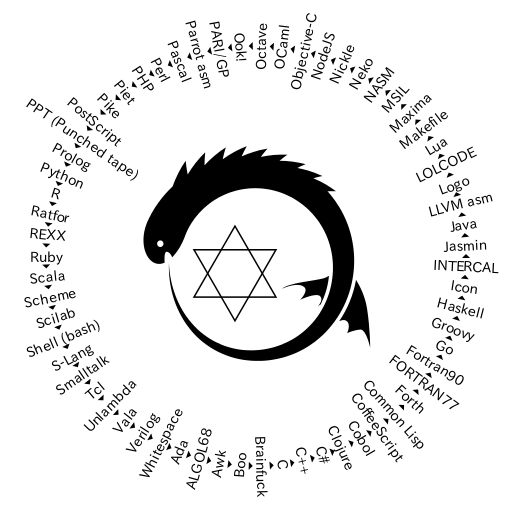
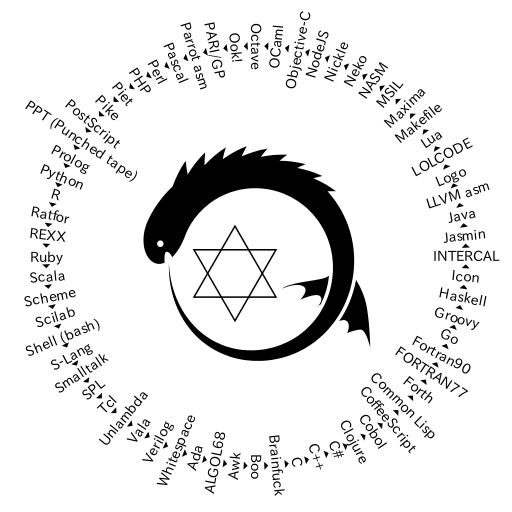
* the 64th language: SPL

Changed region(s): [[0.0312, 0.0312, 0.9688, 0.9688], [0.2188, 0.3125, 0.2812, 0.3438]]

diff --git a/QR.rb b/QR.rb
@@ -1,57 +1,57 @@
 eval$s=%q(eval(%w(B=92.chr;g=32.chr;puts(eval(%q(N=10.chr;n=0;e=->s{Q[Q[s,B],?"].K(N,B+?n)};E=->s{'("'+e[s]+'")'};d=->s,t
 =?"{s.K(t){t+t}};Q=->s,t=?${s.K(t){B+$&}};M=->s{"<stdio.h>#{N}!t~mX{puts#{E[s]};return~0;}"};V=->s,a,z{s.K(/(#{B*4})+/){a
 +"#{$&.size/2}"+z}};$D="program~QR";%(object~QR~extends~App{Z#{E[%((display~"#{e[%[echo~-En~"#{Q[e[e["Transcript~show:~'#
-{d[%(proc~f~{n}~{sJ~repeat~"Y"~$n}~;puts~[reK~ -all~{.  }~"#{V[Q  [e[%[!t~mX{sJ~s=#{E[%(with~Ada.Text_Io;procedure~qr~is~
-beg!~Ada.Text_Io.Put_L!e("#{d[%(Z("#{ d[%(B   EGIN     {s=#      {E[%(f={n~as~!t|'Y'*n};a=0;s=#{V[Q[E["#!clude"+M["#!clud
-e<iostream>`n!t~mX{std::cout<<#{E[%  (cl     a                            ss~Program{public~static~void~MX{System.Console
-.Write(#{E[%((doseq[s(lazy- cat["    I                                   DENTIFICATION~DIVISION.""PROGRAM-ID.~QR.""PROCED
-URE~DIVISION."'DISPLA`x59]  (ma                                                    p~#(str"~~~~^""(.replace~%1"^"""^"^"")
-"^"&")(re-seq~#".{1,45}""    #                                                    {e[%((f=(n)->Array(n+1).jo!~"Y");consol
-e.log("%s",#{V[E[%((H-l!                                                                 e"#{e[%(~:~A~."#{g*9}"~;~:~B~A~.
-"~WRITE(*,*)'"~A~;~:~C~                                                                 B~T`x59PE~."~'"~CR~;~:~D~S"~#$D"~
-C~S^"~Z~^"(&"~C~S^"~#{                                                                       e[%(package~ma!;import"fmt";
-func~mX{fmt.Pr!t#{E[%                                                                       (Z'#{e[("ma!=putStr"+E[%(proc
-edure~mX;i:=c:=0;s:                                    =#{E[%(.c                                lass~public~QR`n.super~#{
-$T="java/io/Pr!tS                              tream"}`n.method~public~s                       tatic~ma!([L#{S="java/lang
-/"}SJ;)V~;]`n.li                           mit~stack~2`ngetstatic~#{S}System/                   out~L#$T;`nldc~"#{e[%(cla
-ss~QR{public~s                         tatic~void~ma!(SJ[]v){SJ~c[]=new~SJ[8000]                  ,y="",z=y,s="#{z=t=(0..
-r=q=126).map{                        |n|[n,[]]};a="";b=->n{a<<(n%78+55)%84+42};(%(@                s=global[#{i=(s=%(PR~"
-`x48AI^~1.2~                       PR~"VISIBLE^~"#{Q["Z"+E[%(all:`n`t@echo~'#{d[Q["l!               el:99999;Z#{E[%(.asse
-mbly~t{}.me                      thod~static~void~MX{.entrypo!t~ldstr"#{e[%(m:db`x60#{               e[s="$Z#{E[%(Zf#{E["
-require('u                      til').Z#{E["#import"+M["Z_sJ"+E[%(s=toascii#{E["Z#{E[%(s              ay"#{e["#$D(output)
-;beg!~H(#                     {((p="eval";%($_="#{ s=%(<?php~function~f($n){return~str_re             peat("Y",$n);};$f="
-f";$z=3+$                    w=strlen($s=#{V[Q[E[   "!t~mX{H#{E[%((___________)dup~=/s(|~~~            ~~.~~~|)def(#{Q["q
-r:-H('#{                    Q[e[%(for~c~!"".jo!(  [  "say~'%s'^n"%l~for~l~!#{E[d[%(eval$s=%q            (#$s)),?']]}.spli
-t("^n")]                   ):Z('cat("r=fput(cha  r(%  d))^n")'%ord(c))`nZ('cat("end^n")'))],            ?']}').",B]}){9~7
-{exch~du       p~         1~and~79~mul~32~add~  exch~  2~idiv~3~1~roll~s~exch~2~!dex~exch~put            ~1~sub~dup~6~eq{
-1~sub}if                 }repeat~s~=~pop~pop}  forall~  =~quit)]};return~0;}"]],"{$f(",")}"]})           *3;echo"^x89PNG^
-r^n^x1a^n               ";$m="";                                     $t="^xc0^0^xff";for($i=-1           ;$i<128*$z;$m.=$
-c--?($w-$c        ||$  i>$z)&&$i/  $z<($c<  $w?ord($s[(!t  )($c/3)  ]):$c--%3+2)?$t[2].$t[$c%3%          2].$t[$c%3]:"^0^
-0^0":"^0")$       c=++$i%$z;foreac  h(arr  ay("I`x48DR".pa  ck("N  NCV",$w+2,128,8,2),"IDAT".gz          compress($m),"IE
-ND")as$d)echo~   pack("NA*N",strlen  ($d  )-4,$d,crc32($d))  ;?>  );(s+N*(-s.size%6)).unpack("B          *")[0].K(/.{6}/)
-{n=$&.to_i~2;((n+14) /26*6+n+47).chr  }  }";s|.|$n=ord$&;sub  s  tr~unpack(B8,chr$n-!t($n/32)*6          -41),2|eg;Z~pack
-"B*",$_).scan(/[~,-: A-z]+|(.)/){p="s   ++#{$1?"chr~#{$1.ord}   +e":$&+?+};"+p};p)).K(/.{1,255}          /){|s|"'#{s}',"}
-}'')end."]}"`nend)]} ;quit"]};t=num2  c  ell(b=11-ceil(s/13)  )  ;for~n=1:9m={};for~i=1:1     4          1f=@(x,y,n)repma
-t(["Ook"~x~"~Ook"~y~  32],[1~abs(n)  ]);  m(i)=[f(z=46,63,n  )~f  (q=z-(i<13)*               1          3  ,q,i-13)~f(33,
-z,1)~f(63,z,n)];end;t (x)=m(diff([  0~s(x  =b==n)])+13);en  d;Zf(  strjo!(t                  ,          "   ")))]]]}"]})+
-N]};"+N]}`x60`nglobal  ~_start`n_  start:m  ov~edx,#{s.si  ze}`nmo  v~ecx,m`nmov~e          b          x     ,1`nmov~eax,
-4`n!t~128`nmov~ebx,0`n mov~eax,1                                     `n!t~128)]}"           c          a      ll~void~[ms
-corlib]System.Console:  :Write(sJ)ret})]};qui  t();",B  ],?$].K(?'){%('"'"')}}')] .K(/[:"] /          ,       ":^0"),/[~Y
-`t;"(){}`[`]]/]}"~PR~"`  x4bT`x48`x58B`x59E~B`  x59E)  ).size+1}x~i8]c"#{s.K(/[^"]/){"^%` x          5         8"%$&.ord}
-}^00"declare~i32@puts(i8  *)def!e~i32@mX{%1=cal  l~i  32@puts(i8*getelementptr([#{i}x~i8]*          @          s,i32~0,i3
-2~0))ret~i32~0})).bytes{|  n|r,z=z[n]||(b[r/78];  b  [r];q<6083&&z[n]=[q+=1,[]];t[n])};b[          r           /78];b[r]}
-";!t~i=0,n=0,q=0;for(;++n<   126;)c[n]=""+(char)n   ;for(;i<s.length();){q=q*78+(s.char           A             t(i)-13)%
-84;if(i++%2>0){y=q<n?c[q]:y   ;c[n++]=z+y.charAt(0 );System.out.Z(z=c[q]);q=0;}}}})]}"           `              n!vokevir
-tual~#$T/Zln(L#{S}SJ;)V`nret    urn`n.end~method)+N]};H("DO,1<-#"||*s);s?while~t:=or           d(move(          1))do{i+:
-=1;u:=-i;every~0to~7do{u:=u*2+    t%2;t/:=2};H("PLEASE")^(i%4/3);H("DO,1SUB#"||i||           "<-#"||((          c-u)%256)
-);c:=u;};H("PLEASEREADOUT,1^nPL      EASEGIVEUP");end)]).tr(B,?&)]}'.tr('&','YY            ');)]};})]}"~DUP~FO  R~S"~&A,&
-"~C~NE`x58T~S^"~&A)^",&"~C~0~DO~B       ~."~&char("~COUNT~.~."~),&'"~CR~LOOP             ~S^"~&^"^""~C~S"~end~#  $D"~C~A~
-."~STOP"~CR~A~."~END"~CR~B`x59E~;~D~        )]}"))],'#{f(',')}']}))]}"))               ["~~~~^"~^".""STOP~RUN."  ])](Zln(
-str"#{g*8}"s)))).tr~B,?`x7e]}.Replace(             "`x7e","Y"));                    }})]};}"]]],"$(f(","))"]};for~i~!~ran
-ge(len(s)):b~as~!t=s[i];a-=b;Z(('+'*-a~if~                                       0>a~else'-'*a)+'.');a=b;).tr~B,?`x21]};K
-(/`x21/,"Y",s);Z~s})]}"))]}");end~qr;)]};!t~i,                              j;Z("module~QR;!itial~beg!~");for(i=0;i<s.len
-gth;i++){Z("$H(^"~~~");for(j=6;j>=0;j--)Z((s[i]>>j)%2                >0?"Yt":"~");Z("YnYtYn~~^`");");}Z("$display(^"YnYn^
-");end~endmodule");return~0;}].reverse],/[`[`]$]/],"[f~",?]]}"~^x60.&]k),?']}';cr"]]]}"|sed~-E~-e~'s/([`x5eY]|Y.){1,120}/
-Zf("%s","^0");^n/g'].K(/.{1,3000}/){%(Zf("%s","#{d[d[$&],?']}")`n)}+"quit"]}"))]};})).gsub(/[!HJKXYZ^`~]/){[B*2,:write,B,
-:tring,:gsub,"ain()",B*4,:print,g,:in][$&.ord%47%12]})))*"")#_buffer_for_future_bug_fixes_#_buffer_for_future_bug_fixes_#
+{d[%(H#{Q[E[%(proc~f~{n}~{sJ~repeat~"Y"~$n}~;p uts~[re  K~-all~{  .}~"#{V[Q[e[%[!t~mX{sJ~s=#{E[%(with~Ada.Text_Io;procedu
+re~qr~is~beg!~Ada.Text_Io.Put_L!e("#{ d[%(Z   ("#{     d[%(      BEGIN{s=#{E[%(f={n~as~!t|'Y'*n};a=0;s=#{V[Q[E["#!clude"+
+M["#!clude<iostream>`n!t~mX{std::co  ut<     <                            #{E[%(class~Program{public~static~void~MX{Syste
+m.Console.Write(#{E[%((dose q[s(l    a                                   zy-cat["IDENTIFICATION~DIVISION.""PROGRAM-ID.~QR
+.""PROCEDURE~DIVISION."'DI  SPL                                                    A`x59](map~#(str"~~~~^""(.replace~%1"^
+"""^"^"")"^"&")(re-seq~#"    .                                                    {1,45}""#{e[%((f=(n)->Array(n+1).jo!~"Y
+");console.log("%s",#{V[                                                                 E[%((H-l!e"#{e[%(~:~A~."#{g*9}"~
+;~:~B~A~."~WRITE(*,*)'"                                                                 ~A~;~:~C~B~T`x59PE~."~'"~CR~;~:~D
+~S"~#$D"~C~S^"~Z~^"(&"                                                                       ~C~S^"~#{e[%(package~ma!;imp
+ort"fmt";func~mX{fmt.                                                                       Pr!t#{E[%(Z'#{e[("ma!=putStr"
++E[%(procedure~mX;i                                    :=c:=0;s:                                =#{E[%(.class~public~QR`n
+.super~#{$T="java                              /io/Pr!tStream"}`n.method                       ~public~static~ma!([L#{S="
+java/lang/"}SJ;)                           V~;]`n.limit~stack~2`ngetstatic~#{                   S}System/out~L#$T;`nldc~"
+#{e[%(class~QR                         {public~static~void~ma!(SJ[]v){SJ~c[]=new                  ~SJ[8000],y="",z=y,s="#
+{z=t=(0..r=q=                        126).map{|n|[n,[]]};a="";b=->n{a<<(n%78+55)%84                +42};(%(@s=global[#{i=
+(s=%(PR~"`x4                       8AI^~1.2~PR~"VISIBLE^~"#{Q["Z"+E[%(all:`n`t@echo~'               #{d[Q["l!el:99999;Z#{
+E[%(.assemb                      ly~t{}.method~static~void~MX{.entrypo!t~ldstr"#{e[%(m               :db`x60#{e[s="$Z#{E[
+%(Zf#{E["r                      equire('util').Z#{E["#import"+M["Z_sJ"+E[%(s=toascii#{E[              "Z#{E[%(say"#{e["#$
+D(output)                     ;beg!~H(#{((p="eval" ;%($_="#{s=%(<?php~function~f($n){retu             rn~str_repeat("Y",$
+n);};$f="                    f";$z=3+$w=strlen($s   =#{V[Q[E["!t~mX{H#{E[%((___________)dup            ~=/s(|~~~~~.~~~|)d
+ef(#{Q["                    qr:-H('#{Q[e[%(for~c  ~  !"".jo!(["say~'%s'^n"%l~for~l~!#{E[d[%(            eval$s=%q(#$s)),?
+']]}.spl                   it("^n")]):Z('cat("r  =fp  ut(char(%d))^n")'%ord(c))`nZ('cat("end            ^n")'))],?']}')."
+,B]}){9~       7{         exch~dup~1~and~79~mu  l~32~  add~exch~2~idiv~3~1~roll~s~exch~2~!dex            ~exch~put~1~sub~
+dup~6~eq                 {1~sub}if}repeat~s~=  ~pop~po  p}forall~=~quit)]};return~0;}"]],"{$f(           ",")}"]})*3;echo
+"^x89PNG^               r^n^x1a^                                     n";$m="";$t="^xc0^0^xff";           for($i=-1;$i<128
+*$z;$m.=$c        --?  ($w-$c||$i  >$z)&&$  i/$z<($c<$w?o  rd($s[(  !t)($c/3)]):$c--%3+2)?$t[2]          .$t[$c%3%2].$t[$
+c%3]:"^0^0^       0":"^0")$c=++$i%  $z;fo  reach(array("I`  x48DR  ".pack("NNCV",$w+2,128,8,2),          "IDAT".gzcompres
+s($m),"IEND")a   s$d)echo~pack("NA*  N",  strlen($d)-4,$d,c  rc3  2($d));?>);(s+N*(-s.size%6)).          unpack("B*")[0].
+K(/.{6}/){n=$&.to_i~ 2;((n+14)/26*6+  n  +47).chr}}";s|.|$n=  o  rd$&;substr~unpack(B8,chr$n-!t          ($n/32)*6-41),2|
+eg;Z~pack"B*",$_).sc an(/[~,-:A-z]+|(   .)/){p="s++#{$1?"chr~   #{$1.ord}+e":$&+?+};"+p};p)).K(          /.{1,255}/){|s|"
+'#{s}',"}}'')end."]} "`nend)]};quit"  ]  };t=num2cell(b=11-c  e  il(s/13));for~n=1:9m={};     f          or~i=1:141f=@(x,
+y,n)repmat(["Ook"~x~  "~Ook"~y~32],  [1~  abs(n)]);m(i)=[f(  z=4  6,63,n)~f(q=               z          -  (i<13)*13,q,i-
+13)~f(33,z,1)~f(63,z, n)];end;t(x)  =m(di  ff([0~s(x=b==n)  ])+13  );end;Zf                  (          s   trjo!(t,"")))
+]]]}"]})+N]};"+N]}`x6  0`nglobal~  _start`  n_start:mov~e  dx,#{s.  size}`nmov~ecx          ,          m     `nmov~ebx,1`
+nmov~eax,4`n!t~128`nmo v~ebx,0`n                                     mov~eax,1`n!           t          ~      128)]}"call
+~void~[mscorlib]System  .Console::Write(sJ)re  t})]};q  uit();",B],?$].K(?'){%('" '"')}}') ]          .       K(/[:"]/,":
+^0"),/[~Y`t;"(){}`[`]]/  ]}"~PR~"`x4bT`x48`x58  B`x59  E~B`x59E)).size+1}x~i8]c"#{s.K(/[^ "          ]         /){"^%`x58
+"%$&.ord}}^00"declare~i3  2@puts(i8*)def!e~i32@  mX{  %1=call~i32@puts(i8*getelementptr([#          {          i}x~i8]*@s
+,i32~0,i32~0))ret~i32~0})  ).bytes{|n|r,z=z[n]||  (  b[r/78];b[r];q<6083&&z[n]=[q+=1,[]];          t           [n])};b[r/
+78];b[r]}";!t~i=0,n=0,q=0;   for(;++n<126;)c[n]="   "+(char)n;for(;i<s.length();){q=q*7           8             +(s.charA
+t(i)-13)%84;if(i++%2>0){y=q   <n?c[q]:y;c[n++]=z+y .charAt(0);System.out.Z(z=c[q]);q=0           ;              }}}})]}"`
+n!vokevirtual~#$T/Zln(L#{S}S    J;)V`nreturn`n.end~method)+N]};H("DO,1<-#"||*s);s?wh           ile~t:=          ord(move(
+1))do{i+:=1;u:=-i;every~0to~7d    o{u:=u*2+t%2;t/:=2};H("PLEASE")^(i%4/3);H("DO,1S           UB#"||i||          "<-#"||((
+c-u)%256));c:=u;};H("PLEASEREAD      OUT,1^nPLEASEGIVEUP");end)]).tr(B,?&)]}'.t            r('&','YY');)]};})]  }"~DUP~FO
+R~S"~&A,&"~C~NE`x58T~S^"~&A)^",&"       ~C~0~DO~B~."~&char("~COUNT~.~."~),&'             "~CR~LOOP~S^"~&^"^""~C  ~S"~end~
+#$D"~C~A~."~STOP"~CR~A~."~END"~CR~B`        x59E~;~D~)]}"))],'#{f(',')}'               ]}))]}"))["~~~~^"~^".""S  TOP~RUN.
+"])](Zln(str"#{g*8}"s)))).tr~B,?`x7e]}             .Replace("`x7                    e","Y"));}})]};}"]]],"$(f(","))"]};fo
+r~i~!~range(len(s)):b~as~!t=s[i];a-=b;Z(('                                       +'*-a~if~0>a~else'-'*a)+'.');a=b;).tr~B,
+?`x21]};K(/`x21/,"Y",s);Z~s})]}"))]}");end~qr;                              )]};!t~i,j;Z("module~QR;!itial~beg!~");for(i=
+0;i<s.length;i++){Z("$H(^"~~~");for(j=6;j>=0;j--)Z((s                [i]>>j)%2>0?"Yt":"~");Z("YnYtYn~~^`");");}Z("$displa
+y(^"YnYn^");end~endmodule");return~0;}].reverse],/[`[`]$]/],"[f~",?]]}"~^x60.&]k)]]};),?']}';cr"]]]}"|sed~-E~-e~'s/([`x5e
+Y]|Y.){1,120}/Zf("%s","^0");^n/g'].K(/.{1,3000}/){%(Zf("%s","#{d[d[$&],?']}")`n)}+"quit"]}"))]};})).gsub(/[!HJKXYZ^`~]/){
+[B*2,:write,B,:tring,:gsub,"ain()",B*4,:print,g,:in][$&.ord%47%12]})))*"")#_buffer_for_future_bug_fixes_#_buffer_for_futu
 #####################  Quine Relay -- Copyright (c) 2013, 2014 Yusuke Endoh (@mametter), @hirekoke  ####################)

diff --git a/src/code-gen.rb b/src/code-gen.rb
@@ -685,6 +685,13 @@ class Tcl_Unlambda < CodeGen
   end
 end
 
+class SPL < CodeGen
+  File = "QR.spl"
+  Cmd = "splrun QR.spl > OUTFILE"
+  Apt = "spl-core"
+  Code = %q(%(write#{Q[E[PREV]]};))
+end
+
 class Smalltalk < CodeGen
   File = "QR.st"
   Cmd = "gst QR.st > OUTFILE"

diff --git a/README.md b/README.md
@@ -5,7 +5,7 @@
 This is a Ruby program that generates
 Scala program that generates
 Scheme program that generates
-...(through 63 languages in total)...
+...(through 64 languages in total)...
 REXX program that generates
 the original Ruby code again.
 
@@ -28,8 +28,8 @@ First, you have to type the following apt-get command to install all of them.
       intercal iverilog jasmin-sable libpng12-dev llvm lua5.2 make maxima \
       mono-devel mono-mcs nasm neko nickle nodejs ocaml octave open-cobol \
       openjdk-6-jdk pari-gp parrot perl php5-cli pike7.8 python r-base \
-      ratfor regina-rexx ruby2.0 scala scilab slsh swi-prolog tcl ucblogo \
-      valac
+      ratfor regina-rexx ruby2.0 scala scilab slsh spl-core swi-prolog tcl \
+      ucblogo valac
 
 Then, you have to build the bundled interpreters.
 
@@ -52,7 +52,8 @@ If you could do it, please let me know.  Good luck.
     $ scilab -nw -nb -f QR.sci > QR.bash
     $ bash QR.bash > QR.sl
     $ slsh QR.sl > QR.st
-    $ gst QR.st > QR.tcl
+    $ gst QR.st > QR.spl
+    $ splrun QR.spl > QR.tcl
     $ tclsh QR.tcl > QR.unl
     $ ruby vendor/unlambda.rb QR.unl > QR.vala
     $ valac QR.vala && ./QR > QR.v
@@ -136,63 +137,64 @@ For other languages, I used the following deb packages:
 5  |Shell (bash)       |bash           |4.3-11ubuntu1
 6  |S-Lang             |slsh           |2.2.4-15ubuntu1
 7  |Smalltalk          |gnu-smalltalk  |3.2.4-2
-8  |Tcl                |tcl            |8.6.0+6ubuntu3
-9  |Unlambda           |(none)         |-
-10 |Vala               |valac          |0.22.1-0ubuntu1
-11 |Verilog            |iverilog       |0.9.7-1
-12 |Whitespace         |(none)         |-
-13 |Ada                |gnat           |4.6ubuntu4
-14 |ALGOL68            |algol68g       |2.4.1-1
-15 |Awk                |gawk           |1:4.0.1+dfsg-2.1ubuntu2
-16 |Boo                |boo            |0.9.5~git20110729.r1.202a430-2
-17 |Brainfuck          |bf             |20041219ubuntu5
-18 |C                  |gcc            |4:4.8.2-1ubuntu6
-19 |C++                |g++            |4:4.8.2-1ubuntu6
-20 |C#                 |mono-mcs       |3.2.8+dfsg-4ubuntu1
-21 |Clojure            |clojure1.4     |1.4.0+dfsg-3
-22 |Cobol              |open-cobol     |1.1-1build1
-23 |CoffeeScript       |coffeescript   |1.4.0-1
-24 |Common Lisp        |clisp          |1:2.49-9ubuntu1
-25 |Forth              |gforth         |0.7.0+ds2-0.1
-26 |FORTRAN77          |f2c            |20100827-1
-27 |Fortran90          |gfortran       |4:4.8.2-1ubuntu6
-28 |Go                 |golang         |2:1.2.1-2ubuntu1
-29 |Groovy             |groovy         |2.0.0~beta2+isreally1.8.6-0ubuntu1
-30 |Haskell            |ghc            |7.6.3-10
-31 |Icon               |icont          |9.4.3-4.2ubuntu1
+8  |SPL                |spl-core       |1.0~pre6-4ubuntu1
+9  |Tcl                |tcl            |8.6.0+6ubuntu3
+10 |Unlambda           |(none)         |-
+11 |Vala               |valac          |0.22.1-0ubuntu1
+12 |Verilog            |iverilog       |0.9.7-1
+13 |Whitespace         |(none)         |-
+14 |Ada                |gnat           |4.6ubuntu4
+15 |ALGOL68            |algol68g       |2.4.1-1
+16 |Awk                |gawk           |1:4.0.1+dfsg-2.1ubuntu2
+17 |Boo                |boo            |0.9.5~git20110729.r1.202a430-2
+18 |Brainfuck          |bf             |20041219ubuntu5
+19 |C                  |gcc            |4:4.8.2-1ubuntu6
+20 |C++                |g++            |4:4.8.2-1ubuntu6
+21 |C#                 |mono-mcs       |3.2.8+dfsg-4ubuntu1
+22 |Clojure            |clojure1.4     |1.4.0+dfsg-3
+23 |Cobol              |open-cobol     |1.1-1build1
+24 |CoffeeScript       |coffeescript   |1.4.0-1
+25 |Common Lisp        |clisp          |1:2.49-9ubuntu1
+26 |Forth              |gforth         |0.7.0+ds2-0.1
+27 |FORTRAN77          |f2c            |20100827-1
+28 |Fortran90          |gfortran       |4:4.8.2-1ubuntu6
+29 |Go                 |golang         |2:1.2.1-2ubuntu1
+30 |Groovy             |groovy         |2.0.0~beta2+isreally1.8.6-0ubuntu1
+31 |Haskell            |ghc            |7.6.3-10
+32 |Icon               |icont          |9.4.3-4.2ubuntu1
    |                   |iconx          |9.4.3-4.2ubuntu1
-32 |INTERCAL           |intercal       |29:0.29-3
-33 |Jasmin             |jasmin-sable   |2.4.0-3
-34 |Java               |openjdk-6-jdk  |6b33-1.13.5-1ubuntu0.14.04
-35 |LLVM asm           |llvm           |1:3.4-0ubuntu1
-36 |Logo               |ucblogo        |5.5-2.1
-37 |LOLCODE            |(none)         |-
-38 |Lua                |lua5.2         |5.2.3-1
-39 |Makefile           |make           |3.81-8.2ubuntu3
-40 |Maxima             |maxima         |5.32.1-1
-41 |MSIL               |mono-devel     |3.2.8+dfsg-4ubuntu1
-42 |NASM               |nasm           |2.10.09-1
-43 |Neko               |neko           |2.0.0-3
-44 |Nickle             |nickle         |2.77-1
-45 |NodeJS             |nodejs         |0.10.25~dfsg2-2ubuntu1
-46 |Objective-C        |gobjc          |4:4.8.2-1ubuntu6
-47 |OCaml              |ocaml          |4.01.0-3ubuntu3
-48 |Octave             |octave         |3.8.1-1ubuntu1
-49 |Ook!               |(none)         |-
-50 |PARI/GP            |pari-gp        |2.5.5-1
-51 |Parrot asm         |parrot         |5.9.0-1build1
-52 |Pascal             |fp-compiler    |2.6.2-8
-53 |Perl               |perl           |5.18.2-2ubuntu1
-54 |PHP                |php5-cli       |5.5.9+dfsg-1ubuntu4.4
-55 |Piet               |(none)         |-
-56 |Pike               |pike7.8        |7.8.700-7
-57 |PostScript         |ghostscript    |9.10~dfsg-0ubuntu10.2
-58 |PPT (Punched tape) |bsdgames       |2.17-21
-59 |Prolog             |swi-prolog     |6.6.4-2ubuntu1
-60 |Python             |python         |2.7.5-5ubuntu3
-61 |R                  |r-base         |3.0.2-1ubuntu1
-62 |Ratfor             |ratfor         |1.0-15
-63 |REXX               |regina-rexx    |3.6-2
+33 |INTERCAL           |intercal       |29:0.29-3
+34 |Jasmin             |jasmin-sable   |2.4.0-3
+35 |Java               |openjdk-6-jdk  |6b33-1.13.5-1ubuntu0.14.04
+36 |LLVM asm           |llvm           |1:3.4-0ubuntu1
+37 |Logo               |ucblogo        |5.5-2.1
+38 |LOLCODE            |(none)         |-
+39 |Lua                |lua5.2         |5.2.3-1
+40 |Makefile           |make           |3.81-8.2ubuntu3
+41 |Maxima             |maxima         |5.32.1-1
+42 |MSIL               |mono-devel     |3.2.8+dfsg-4ubuntu1
+43 |NASM               |nasm           |2.10.09-1
+44 |Neko               |neko           |2.0.0-3
+45 |Nickle             |nickle         |2.77-1
+46 |NodeJS             |nodejs         |0.10.25~dfsg2-2ubuntu1
+47 |Objective-C        |gobjc          |4:4.8.2-1ubuntu6
+48 |OCaml              |ocaml          |4.01.0-3ubuntu3
+49 |Octave             |octave         |3.8.1-1ubuntu1
+50 |Ook!               |(none)         |-
+51 |PARI/GP            |pari-gp        |2.5.5-1
+52 |Parrot asm         |parrot         |5.9.0-1build1
+53 |Pascal             |fp-compiler    |2.6.2-8
+54 |Perl               |perl           |5.18.2-2ubuntu1
+55 |PHP                |php5-cli       |5.5.9+dfsg-1ubuntu4.4
+56 |Piet               |(none)         |-
+57 |Pike               |pike7.8        |7.8.700-7
+58 |PostScript         |ghostscript    |9.10~dfsg-0ubuntu10.2
+59 |PPT (Punched tape) |bsdgames       |2.17-21
+60 |Prolog             |swi-prolog     |6.6.4-2ubuntu1
+61 |Python             |python         |2.7.5-5ubuntu3
+62 |R                  |r-base         |3.0.2-1ubuntu1
+63 |Ratfor             |ratfor         |1.0-15
+64 |REXX               |regina-rexx    |3.6-2
 
 Note: `CC=tcc ick -bfO` may be used to compile INTERCAL sources
 with less memory.
